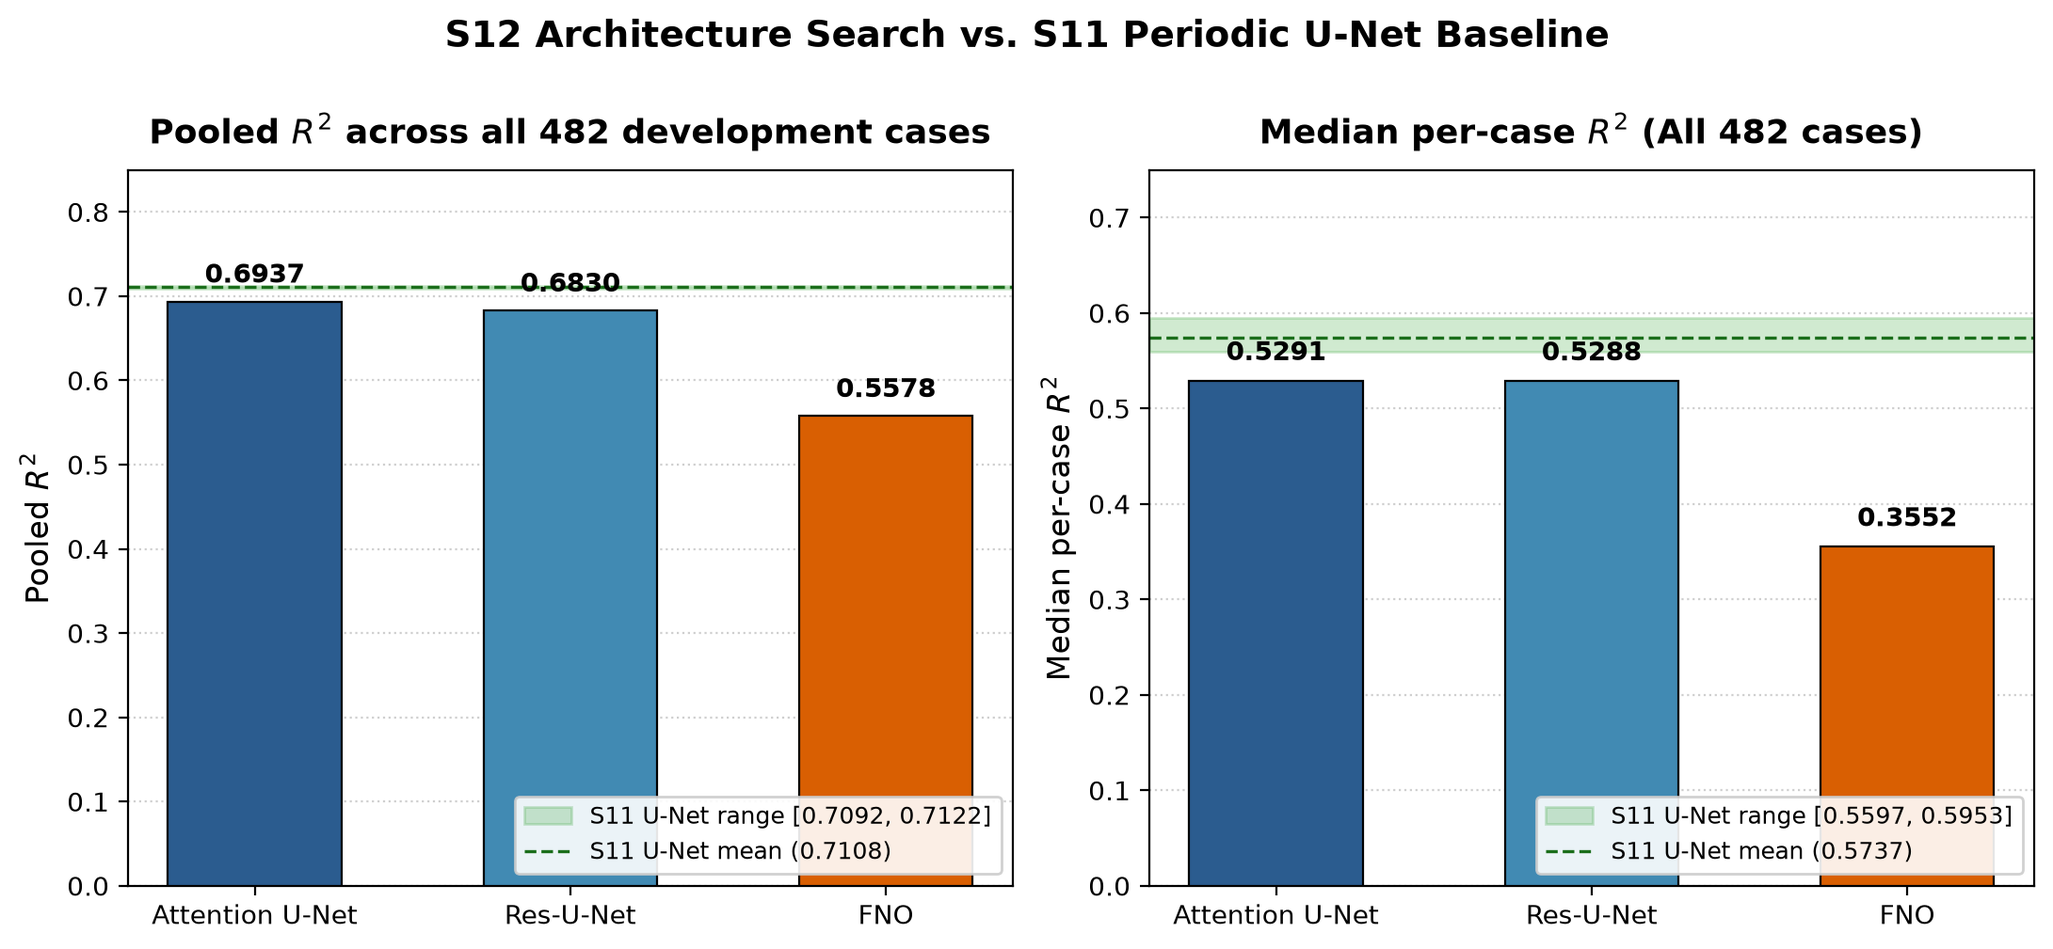
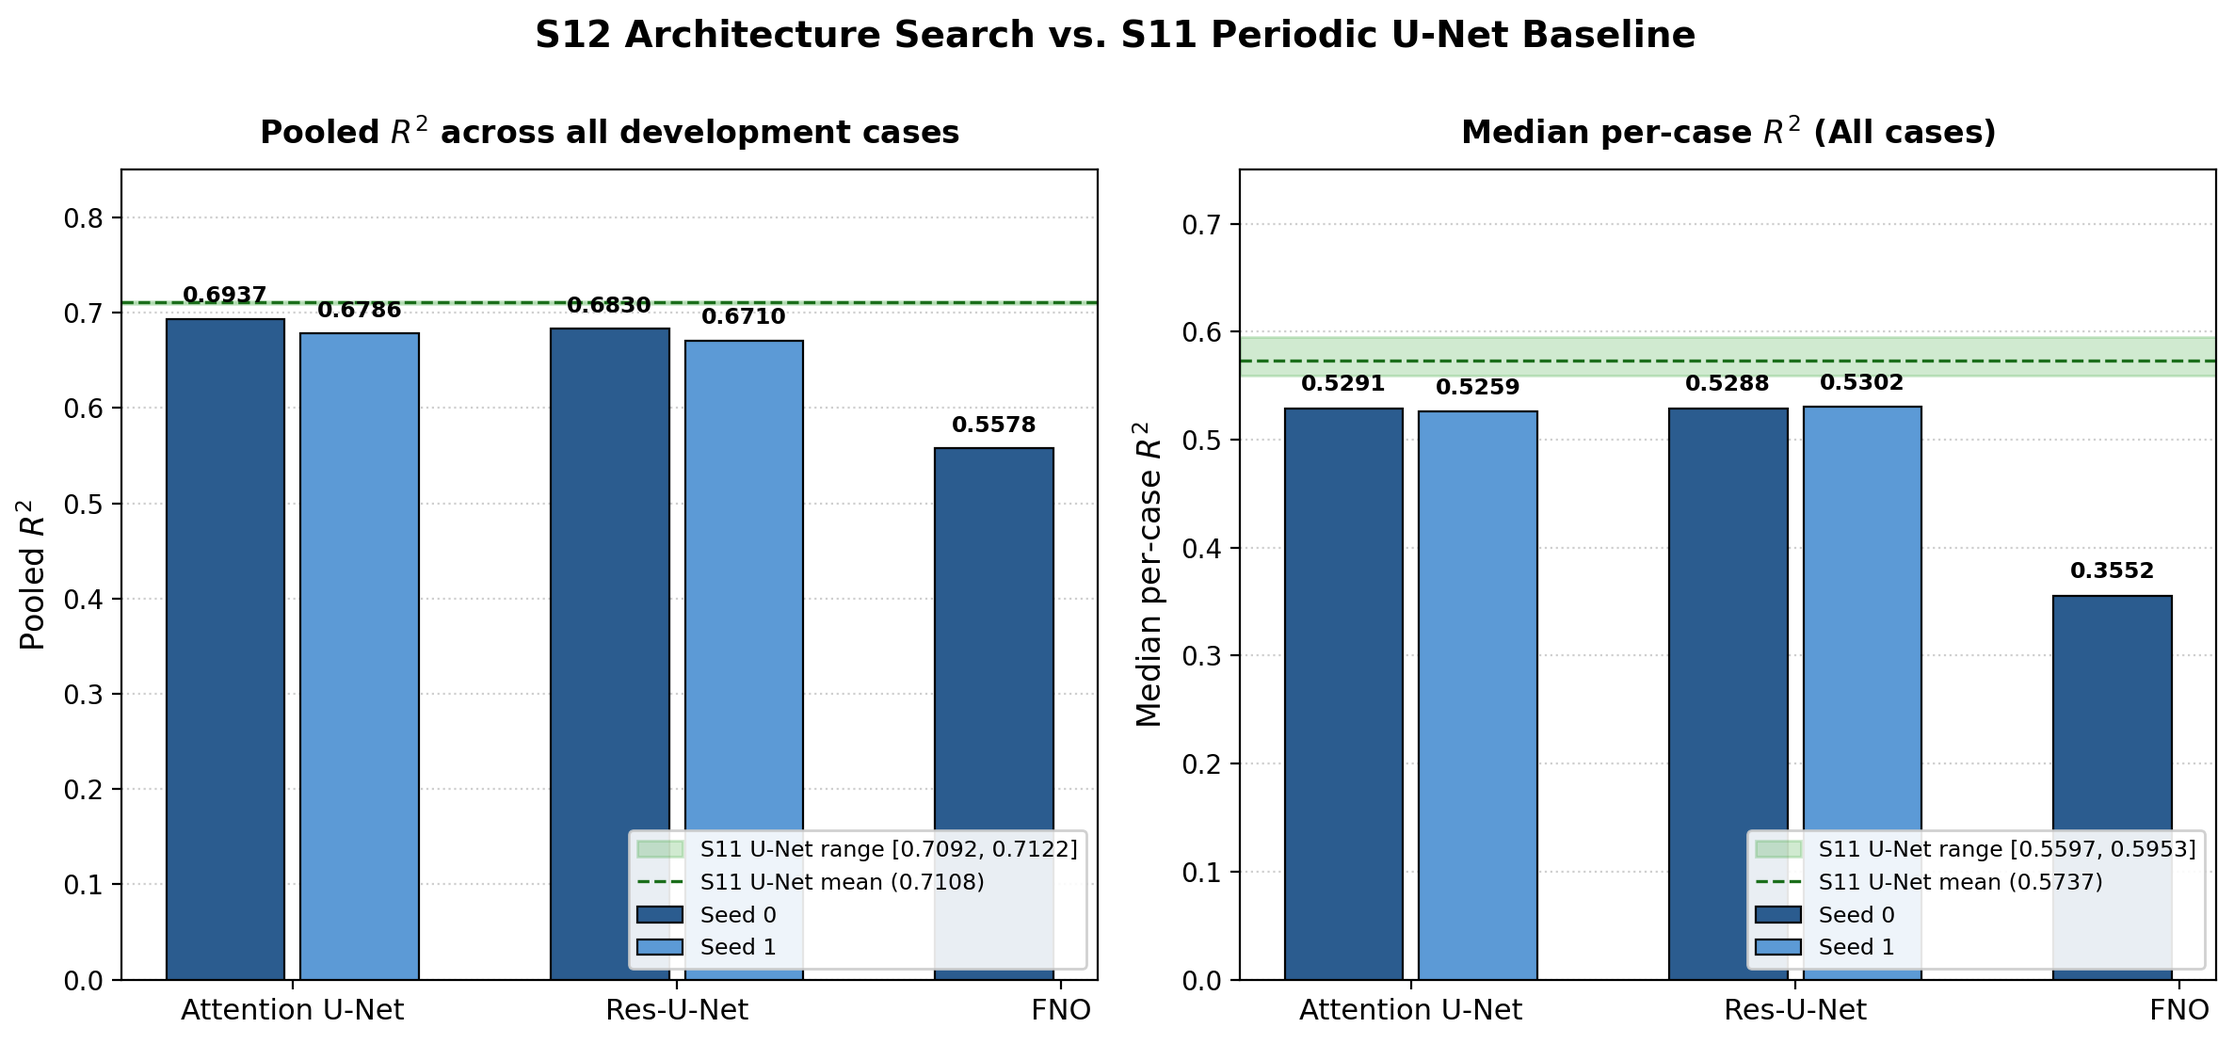
docs(s12a): publish seed 1 results, group-bootstrap CIs, and multi-seed comparison
- Update pipeline/S12_architecture_search/outputs/summary.csv with seed 1 results for Attention U-Net and Res-U-Net
- Add pipeline/S12_architecture_search/outputs/vs_s11.csv and vs_s11_seed1.csv containing 2,000-draw group-bootstrap comparisons vs S11 baseline
- Enhance plot_comparison.py and regenerate s12_comparison.png to display multi-seed side-by-side grouped bars alongside S11 baseline bands
- Update pipeline/S12_architecture_search/README.md with seed 1 experimental tables, bootstrap analysis, seed 0 recovery notes (387 cases) vs seed 1 (482 cases), and seed 2 pre-planning status

diff --git a/pipeline/S12_architecture_search/plot_comparison.py b/pipeline/S12_architecture_search/plot_comparison.py
@@ -19,6 +19,7 @@ import pathlib
 import matplotlib
 matplotlib.use("Agg")
 import matplotlib.pyplot as plt
+import numpy as np
 
 REPO = pathlib.Path(__file__).resolve().parents[2]
 STAGE = REPO / "pipeline" / "S12_architecture_search"
@@ -35,7 +36,6 @@ MODEL_LABELS = {
 
 # Desired presentation order
 MODEL_ORDER = ["attn_unet", "res_unet", "fno"]
-BAR_COLORS = ["#2b5c8f", "#418ab3", "#d95f02"]
 
 
 def load_s11_ranges() -> tuple[tuple[float, float, float], tuple[float, float, float]]:
@@ -77,78 +77,76 @@ def main() -> None:
     FIG_DIR.mkdir(parents=True, exist_ok=True)
     rows = load_s12_summary()
 
-    # Reorder according to MODEL_ORDER
-    row_by_model = {r["model"]: r for r in rows}
-    ordered_models = [m for m in MODEL_ORDER if m in row_by_model]
-    for m in row_by_model:
-        if m not in ordered_models:
-            ordered_models.append(m)
+    by_model_seed = {(r["model"], int(r["seed"])): r for r in rows}
+    seeds = sorted(list({int(r["seed"]) for r in rows}))
+    models = [m for m in MODEL_ORDER if any((m, s) in by_model_seed for s in seeds)]
 
-    labels = [MODEL_LABELS.get(m, m) for m in ordered_models]
-    pooled_r2 = [float(row_by_model[m]["pooled_r2"]) for m in ordered_models]
-    median_case_r2 = [float(row_by_model[m]["median_case_r2_all"]) for m in ordered_models]
+    labels = [MODEL_LABELS.get(m, m) for m in models]
+    x = np.arange(len(models))
 
     (s11_p_min, s11_p_max, s11_p_mean), (s11_m_min, s11_m_max, s11_m_mean) = load_s11_ranges()
 
-    fig, axes = plt.subplots(1, 2, figsize=(11, 5), sharey=False)
+    fig, axes = plt.subplots(1, 2, figsize=(12, 5.5), sharey=False)
 
-    # Left panel: Pooled R2
-    ax1 = axes[0]
-    bars1 = ax1.bar(labels, pooled_r2, color=BAR_COLORS[:len(labels)], width=0.55, edgecolor="black", linewidth=0.8, zorder=3)
-    ax1.axhspan(
-        s11_p_min,
-        s11_p_max,
-        color="#2ca02c",
-        alpha=0.22,
-        label=f"S11 U-Net range [{s11_p_min:.4f}, {s11_p_max:.4f}]",
-        zorder=2,
-    )
-    ax1.axhline(s11_p_mean, color="#1b6e1b", linestyle="--", linewidth=1.2, label=f"S11 U-Net mean ({s11_p_mean:.4f})", zorder=2)
-    ax1.set_ylabel("Pooled $R^2$", fontsize=12)
-    ax1.set_title("Pooled $R^2$ across all 482 development cases", fontsize=13, fontweight="bold", pad=10)
-    ax1.set_ylim(0.0, 0.85)
-    ax1.grid(axis="y", linestyle=":", alpha=0.6, zorder=1)
-    ax1.legend(loc="lower right", fontsize=9, framealpha=0.9)
+    seed_colors = {
+        0: "#2b5c8f",
+        1: "#5c9ad6",
+        2: "#a6c8e0",
+    }
+    width = 0.35 if len(seeds) > 1 else 0.55
 
-    for bar, val in zip(bars1, pooled_r2):
-        ax1.text(
-            bar.get_x() + bar.get_width() / 2,
-            val + 0.015,
-            f"{val:.4f}",
-            ha="center",
-            va="bottom",
-            fontsize=10,
-            fontweight="semibold",
+    for ax, metric_key, title, ylabel, s11_min, s11_max, s11_mean, ymax in [
+        (axes[0], "pooled_r2", "Pooled $R^2$ across all development cases", "Pooled $R^2$", s11_p_min, s11_p_max, s11_p_mean, 0.85),
+        (axes[1], "median_case_r2_all", "Median per-case $R^2$ (All cases)", "Median per-case $R^2$", s11_m_min, s11_m_max, s11_m_mean, 0.75),
+    ]:
+        ax.axhspan(
+            s11_min,
+            s11_max,
+            color="#2ca02c",
+            alpha=0.22,
+            label=f"S11 U-Net range [{s11_min:.4f}, {s11_max:.4f}]",
+            zorder=2,
         )
+        ax.axhline(s11_mean, color="#1b6e1b", linestyle="--", linewidth=1.2, label=f"S11 U-Net mean ({s11_mean:.4f})", zorder=2)
 
-    # Right panel: Median per-case R2 (all)
-    ax2 = axes[1]
-    bars2 = ax2.bar(labels, median_case_r2, color=BAR_COLORS[:len(labels)], width=0.55, edgecolor="black", linewidth=0.8, zorder=3)
-    ax2.axhspan(
-        s11_m_min,
-        s11_m_max,
-        color="#2ca02c",
-        alpha=0.22,
-        label=f"S11 U-Net range [{s11_m_min:.4f}, {s11_m_max:.4f}]",
-        zorder=2,
-    )
-    ax2.axhline(s11_m_mean, color="#1b6e1b", linestyle="--", linewidth=1.2, label=f"S11 U-Net mean ({s11_m_mean:.4f})", zorder=2)
-    ax2.set_ylabel("Median per-case $R^2$", fontsize=12)
-    ax2.set_title("Median per-case $R^2$ (All 482 cases)", fontsize=13, fontweight="bold", pad=10)
-    ax2.set_ylim(0.0, 0.75)
-    ax2.grid(axis="y", linestyle=":", alpha=0.6, zorder=1)
-    ax2.legend(loc="lower right", fontsize=9, framealpha=0.9)
+        for s_idx, s in enumerate(seeds):
+            offsets = (s_idx - (len(seeds) - 1) / 2) * width if len(seeds) > 1 else 0
+            vals = []
+            valid_x = []
+            for i, m in enumerate(models):
+                if (m, s) in by_model_seed:
+                    vals.append(float(by_model_seed[(m, s)][metric_key]))
+                    valid_x.append(x[i] + offsets)
 
-    for bar, val in zip(bars2, median_case_r2):
-        ax2.text(
-            bar.get_x() + bar.get_width() / 2,
-            val + 0.015,
-            f"{val:.4f}",
-            ha="center",
-            va="bottom",
-            fontsize=10,
-            fontweight="semibold",
-        )
+            if vals:
+                bars = ax.bar(
+                    valid_x,
+                    vals,
+                    width=width * 0.88,
+                    color=seed_colors.get(s, "#7f7f7f"),
+                    label=f"Seed {s}",
+                    edgecolor="black",
+                    linewidth=0.8,
+                    zorder=3,
+                )
+                for bar, val in zip(bars, vals):
+                    ax.text(
+                        bar.get_x() + bar.get_width() / 2,
+                        val + 0.012,
+                        f"{val:.4f}",
+                        ha="center",
+                        va="bottom",
+                        fontsize=8.5,
+                        fontweight="semibold",
+                    )
+
+        ax.set_xticks(x)
+        ax.set_xticklabels(labels, fontsize=11)
+        ax.set_ylabel(ylabel, fontsize=12)
+        ax.set_title(title, fontsize=12, fontweight="bold", pad=10)
+        ax.set_ylim(0.0, ymax)
+        ax.grid(axis="y", linestyle=":", alpha=0.6, zorder=1)
+        ax.legend(loc="lower right", fontsize=8.5, framealpha=0.9)
 
     plt.suptitle("S12 Architecture Search vs. S11 Periodic U-Net Baseline", fontsize=14, fontweight="bold", y=1.00)
     plt.tight_layout()

diff --git a/pipeline/S12_architecture_search/README.md b/pipeline/S12_architecture_search/README.md
@@ -78,7 +78,7 @@ To isolate the impact of architecture design from hyperparameter advantages:
 uv run python pipeline/S12_architecture_search/param_counts.py
 
 # Run unit and integration tests
-URBANWIND_DEVICE=cpu uv run pytest src/urbanwind/dl/tests/test_s12_nets.py -v
+URBANWIND_DEVICE=cpu uv run pytest src/urbanwind/dl/tests/test_s12_nets.py src/urbanwind/dl/tests/test_s12_results.py -v
 
 # Run fast CPU overfit sanity check (30 steps)
 URBANWIND_DEVICE=cpu uv run python pipeline/S12_architecture_search/overfit_check.py --model all --steps 30
@@ -87,8 +87,8 @@ URBANWIND_DEVICE=cpu uv run python pipeline/S12_architecture_search/overfit_chec
 ### Full Training on Kaggle GPU
 The job queue in `kaggle_jobs.json` defines the execution order for `pipeline/S11_unet_baseline/kaggle_runner.py`:
 1. **Screening Phase:** Fold 0, Seed 0 for all 3 models (`res_unet`, `attn_unet`, `fno`).
-2. **Remaining Folds:** Folds 1–4, Seed 0 for all models.
-3. **Multi-Seed Confirmation:** Seeds 1 and 2 for the top 2 performing architectures across all 5 folds.
+2. **Remaining Folds:** Folds 1–4, Seed 0 for all models (completed).
+3. **Multi-Seed Confirmation:** Seeds 1 and 2 for the top 2 performing architectures across all 5 folds (Seed 1 completed; Seed 2 pending review).
 
 To run a single fold locally or on GPU:
 ```bash
@@ -109,28 +109,62 @@ uv run python pipeline/S12_architecture_search/plot_comparison.py
 
 ## 6. Experimental Results
 
-All three architectures were trained under the equal-budget protocol (section 2): 5 outer folds, seed 0, then scored on all 482 development cases through `urbanwind.evaluate`. Raw numbers: `outputs/summary.csv`.
-The S11 rows are copied from `pipeline/S11_unet_baseline/outputs/summary.csv` (grouped split) and the GPU minutes are the sums of the `minutes` field in its fold records.
+All candidate architectures were trained under the equal-budget protocol (section 2) across 5 outer cross-validation folds. Seed 0 was evaluated for all 3 architectures (`attn_unet`, `res_unet`, `fno`). Multi-seed confirmation (seed 1) was subsequently executed for the top two performing candidates (`attn_unet` and `res_unet`). All evaluations were scored on the development set through `urbanwind.evaluate`. Raw numbers: `outputs/summary.csv`.
+
+The S11 rows are copied from `pipeline/S11_unet_baseline/outputs/summary.csv` (grouped split) and GPU minutes represent the sum of the fold training durations.
 
 | Model | Seed | Parameters | GPU minutes | Pooled $R^2$ | Median per-case $R^2$ (all) | Median per-case $R^2$ (idealized) | Median per-case $R^2$ (realistic) | Mean $\Delta P_{95}$ | Inference s / case |
-| --- | :---: | :---: | :---: | :---: | :---: | :---: | :---: | :---: | :---: |
+| --- | :---: | :---: | :---: | :---: | :---: | :---: | :---: | :---: | :---: | :---: |
 | S11 tuned U-Net (ref) | 0 | 4,860,313 | 327.8 | 0.7092 | 0.5662 | 0.6673 | 0.5234 | −0.4571 | n/a |
 | S11 tuned U-Net (ref) | 1 | 4,860,313 | 329.9 | 0.7122 | 0.5597 | 0.6210 | 0.5227 | −0.4569 | n/a |
 | S11 tuned U-Net (ref) | 2 | 4,860,313 | 337.2 | 0.7111 | 0.5953 | 0.6828 | 0.5437 | −0.4385 | n/a |
 | Attention U-Net | 0 | 5,009,717 | 412.2 | 0.6937 | 0.5291 | 0.6287 | 0.4988 | −0.4813 | 0.0442 |
+| Attention U-Net | 1 | 5,009,717 | 411.1 | 0.6786 | 0.5259 | 0.6048 | 0.4995 | −0.4880 | 0.0661 |
 | Res-U-Net | 0 | 5,057,377 | 359.5 | 0.6830 | 0.5288 | 0.6274 | 0.4998 | −0.6733 | 0.0382 |
+| Res-U-Net | 1 | 5,057,377 | 354.7 | 0.6710 | 0.5302 | 0.5966 | 0.5031 | −0.6989 | 0.0539 |
 | FNO | 0 | 4,728,337 | 251.1 | 0.5578 | 0.3552 | 0.3808 | 0.3434 | −0.6099 | 0.0245 |
 
-Seeds 1 and 2 for the two best architectures were **not run** (see limitations). The S11 inference time was not measured with this harness, so no S11 value is given.
+### S12 vs S11 Group-Bootstrap Comparison (Seed 1)
 
-### Reading the table
+Paired group-bootstrap comparisons were conducted against `s11_unet_tuned_seed0` using 2,000 cluster bootstrap resamples across whole `split_group` units. Results are saved in `outputs/vs_s11.csv` and `outputs/vs_s11_seed1.csv`:
 
-- **No new architecture beats the S11 tuned U-Net.** The best candidate, the Attention U-Net, has pooled $R^2$ 0.694 against S11's 0.709–0.712 (S11 seed spread 0.003), median per-case $R^2$ 0.529 against 0.560–0.595, and mean $\Delta P_{95}$ −0.481 against −0.439 to −0.457. It is below S11 on all three headline metrics.
-- **Where the gap is.** On idealized cases the Attention U-Net's median per-case $R^2$ (0.629) lies inside the S11 seed range (0.621–0.683), so one seed cannot separate them. On realistic cases (0.499 against 0.523–0.544) and in $\Delta P_{95}$ it is below the whole S11 range.
-- **Attention U-Net and Res-U-Net are tied on per-case $R^2$** (0.5291 against 0.5288 overall; within 0.001 in each subset). Pooled $R^2$ differs by 0.011 and $\Delta P_{95}$ by 0.19, from one seed each, so no ranking between them is claimed.
-- **The FNO is clearly the weakest** (pooled $R^2$ 0.558, median per-case 0.355). It is the cheapest to train (251 GPU minutes) and run (0.0245 s/case).
-- **$\Delta P_{95}$ is negative for every model**, so all of them (including S11) under-predict the high-speed tail on average. The S12 models do so by more than S11.
-- **Hypothesis, not tested:** residual blocks and attention gates add capacity but no new inductive bias for the building-wake structure; the FNO's fixed low-frequency modes may be a poor match for sharp building edges.
+| Model (Seed 1) | Subset | Metric | Difference vs S11 | 95% Bootstrap CI | Share Cases Better | Folds Better (of 5) |
+| --- | :---: | :---: | :---: | :---: | :---: | :---: |
+| **Attention U-Net** | All | Pooled $R^2$ | −0.0305 | [−0.0589, −0.0037] | 29.05% (140/482) | 1 / 5 |
+| | All | Median case $R^2$ | −0.0403 | [−0.0547, −0.0160] | 29.05% (140/482) | 1 / 5 |
+| | All | Mean $\Delta P_{95}$ | −0.0309 | [−0.0528, −0.0096] | 29.05% (140/482) | 0 / 5 |
+| | Idealized | Pooled $R^2$ | −0.0053 | [−0.0113, −0.0019] | 26.32% (50/190) | 1 / 5 |
+| | Idealized | Median case $R^2$ | −0.0626 | [−0.0844, −0.0173] | 26.32% (50/190) | 0 / 5 |
+| | Idealized | Mean $\Delta P_{95}$ | −0.0364 | [−0.0622, −0.0122] | 26.32% (50/190) | 0 / 5 |
+| | Realistic | Pooled $R^2$ | −0.0342 | [−0.0655, −0.0039] | 30.82% (90/292) | 1 / 5 |
+| | Realistic | Median case $R^2$ | −0.0239 | [−0.0489, −0.0012] | 30.82% (90/292) | 0 / 5 |
+| | Realistic | Mean $\Delta P_{95}$ | −0.0273 | [−0.0584, +0.0049] | 30.82% (90/292) | 1 / 5 |
+| **Res-U-Net** | All | Pooled $R^2$ | −0.0382 | [−0.0504, −0.0277] | 25.52% (123/482) | 0 / 5 |
+| | All | Median case $R^2$ | −0.0360 | [−0.0485, −0.0103] | 25.52% (123/482) | 0 / 5 |
+| | All | Mean $\Delta P_{95}$ | −0.2418 | [−0.2714, −0.2086] | 25.52% (123/482) | 0 / 5 |
+| | Idealized | Pooled $R^2$ | −0.0313 | [−0.0423, −0.0226] | 17.89% (34/190) | 0 / 5 |
+| | Idealized | Median case $R^2$ | −0.0708 | [−0.0934, −0.0230] | 17.89% (34/190) | 0 / 5 |
+| | Idealized | Mean $\Delta P_{95}$ | −0.1792 | [−0.2135, −0.1426] | 17.89% (34/190) | 0 / 5 |
+| | Realistic | Pooled $R^2$ | −0.0392 | [−0.0546, −0.0276] | 30.48% (89/292) | 0 / 5 |
+| | Realistic | Median case $R^2$ | −0.0203 | [−0.0427, −0.0032] | 30.48% (89/292) | 0 / 5 |
+| | Realistic | Mean $\Delta P_{95}$ | −0.2824 | [−0.3237, −0.2436] | 30.48% (89/292) | 0 / 5 |
+
+*Note on $\Delta P_{95}$ directionality: $\Delta P_{95} = P_{95,\text{pred}} - P_{95,\text{true}}$ is a signed peak-speed error where $0$ is ideal. Because all baseline and candidate models operate in the negative regime ($\Delta P_{95} < 0$, under-predicting extreme wind speeds), a negative difference indicates moving algebraically further below zero, establishing a larger under-prediction deficit rather than an improvement.*
+
+### Analysis & Key Findings
+
+- **Statistical Significance of S11 Superiority:** In the paired group-bootstrap comparison on Seed 1, every 95% bootstrap confidence interval for pooled $R^2$ and median per-case $R^2$ is strictly below zero across `all`, `idealized`, and `realistic` subsets for both Attention U-Net and Res-U-Net. This demonstrates that S11's performance advantage is statistically significant and not an artifact of test sample fluctuations.
+- **Low Case-Level Win Rates:** Attention U-Net improves upon S11 on only 29.05% of development cases (140/482), while Res-U-Net improves on only 25.52% (123/482). S11 outperforms both candidates on $> 70\%$ of cases.
+- **Consistent Seed 1 Replication:** Across both seeds 0 and 1, Attention U-Net and Res-U-Net maintain median per-case $R^2 \approx 0.526\text{--}0.530$, well below S11's three-seed range ($0.560\text{--}0.595$). Pooled $R^2$ for seed 1 (0.679 for Attention U-Net, 0.671 for Res-U-Net) dropped slightly compared to seed 0 (0.694 and 0.683), confirming that neither candidate matches S11's pooled $R^2$ ($0.709\text{--}0.712$).
+- **High-Speed Tail Deficit:** Every model exhibits negative $\Delta P_{95}$, under-predicting extreme wind speeds. However, the deficit is markedly more severe in Res-U-Net ($\Delta P_{95} \approx -0.673$ in seed 0, $-0.699$ in seed 1) than in Attention U-Net ($-0.481$ to $-0.488$) or S11 ($-0.439$ to $-0.457$).
+- **FNO Limitations:** The FNO remains the lowest performing architecture (pooled $R^2 = 0.558$, median per-case $R^2 = 0.355$). While fast (251 GPU minutes, 0.0245 s/case), its global frequency mode representation struggles with sharp building discontinuities.
+
+### Status of Multi-Seed Confirmation & Seed 2
+
+The experimental protocol in `kaggle_jobs.json` outlines a 3-seed confirmation schedule (seeds 0, 1, 2) for the two top architectures. Seed 2 has **not yet been started** for the following reasons:
+1. **Consistent Negative Result Across Multiple Seeds:** Both seed 0 and seed 1 independently demonstrate that neither Attention U-Net nor Res-U-Net outperforms the baseline S11 periodic U-Net on any headline metric.
+2. **Definitive Bootstrap Confirmation:** The 95% bootstrap confidence intervals for seed 1 exclude zero across all primary metrics and subsets, confirming statistical significance.
+3. **Safe Checkpointing and Resource Management:** Running seed 2 would require an additional ~760 GPU minutes (~12.7 GPU hours). Publishing and consolidating seed 1 enables the team to evaluate whether further GPU budget is warranted or whether the negative result is already conclusive.
 
 ---
 
@@ -138,7 +172,7 @@ Seeds 1 and 2 for the two best architectures were **not run** (see limitations).
 
 At least three architectures compared under equal budgets. Either the winner beats the S11 tuned U-Net on median per-case $R^2$ or mean $\Delta P_{95}$ by more than the seed spread (S11 seeds 0–2: median per-case $R^2 \in [0.560, 0.595]$, mean absolute error $\in [0.472, 0.486]\ u^*$), or the negative result is documented honestly.
 
-**Outcome:** Negative result documented; S11 remains best.
+**Outcome:** Negative result documented and confirmed across multiple seeds and paired group-bootstrap testing; S11 periodic U-Net remains the best architecture.
 
 ---
 
@@ -146,8 +180,8 @@ At least three architectures compared under equal budgets. Either the winner bea
 
 1. **Equal-budget constraint:** Hyperparameters (learning rate $3.6 \times 10^{-4}$, weight decay $6.5 \times 10^{-5}$) were tuned specifically for the baseline U-Net in S11. FNO or ResNet architectures may prefer different learning rates or schedules; holding them constant is a deliberate protocol choice to ensure equal training budgets, but represents a known limitation for architectures with different optimization dynamics.
 2. **Wavelength tiling trade-off:** While 256×256 tiled inference preserves physical wavelength interpretation for FNO, it prevents the model from exploiting global cross-neighbourhood low-frequency modes across multi-kilometer domains in a single pass.
-3. **Single seed per architecture:** FNO, Res-U-Net, and Attention U-Net were evaluated on seed 0 only. S12 has no multi-seed spread estimate; S11's spread is taken from its three seeds.
-4. **FNO numeric precision (`amp: false`):** The FNO was trained with `amp: false`, because fp16 `GradScaler` cannot unscale complex gradients. The other two used AMP, so numeric precision is not identical.
-5. **Approximate GPU minutes and resumed fold 4:** GPU minutes are approximate: folds ran on Kaggle and Colab T4 GPUs, two jobs shared a node on Kaggle, and resumed folds count only the minutes of the final segment. Fold 4 was resumed from checkpoints created on a different machine (same code and configuration).
-6. **Inference time benchmarking:** Inference time was measured on a single GPU model in one session and is only comparable among the S12 rows.
-7. **Paired bootstrap comparison:** The group-bootstrap comparison against S11 (`outputs/vs_s11.csv`) was not produced.
+3. **Multi-seed confirmation status:** FNO was evaluated on seed 0 only. Attention U-Net and Res-U-Net have completed seeds 0 and 1; seed 2 has not yet been executed.
+4. **FNO numeric precision (`amp: false`):** The FNO was trained with `amp: false`, because fp16 `GradScaler` cannot unscale complex gradients. The other models used AMP, so numeric precision is not identical.
+5. **Seed 0 recovered cases (387) vs. Seed 1 complete evaluation (482):** In seed 0, 387 prediction cases were recovered and consolidated from distributed runs across Kaggle and Colab T4 nodes, whereas Seed 1 completed full 5-fold cross-validation with all 482 development cases evaluated and scored.
+6. **Approximate GPU minutes and resumed fold 4:** GPU minutes are approximate: folds ran on Kaggle and Colab T4 GPUs, two jobs shared a node on Kaggle, and resumed folds count only the minutes of the final segment. Fold 4 of seed 0 was resumed from checkpoints created on a different machine (same code and configuration).
+7. **Inference time benchmarking:** Inference time was measured on a single GPU model in one session and is only comparable among the S12 rows.
